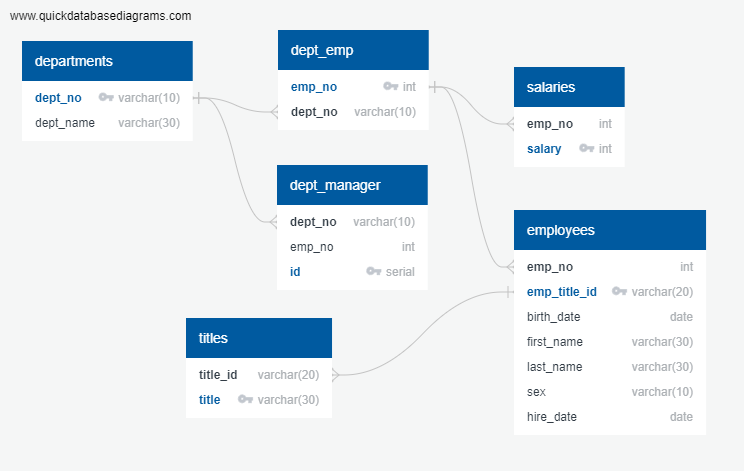
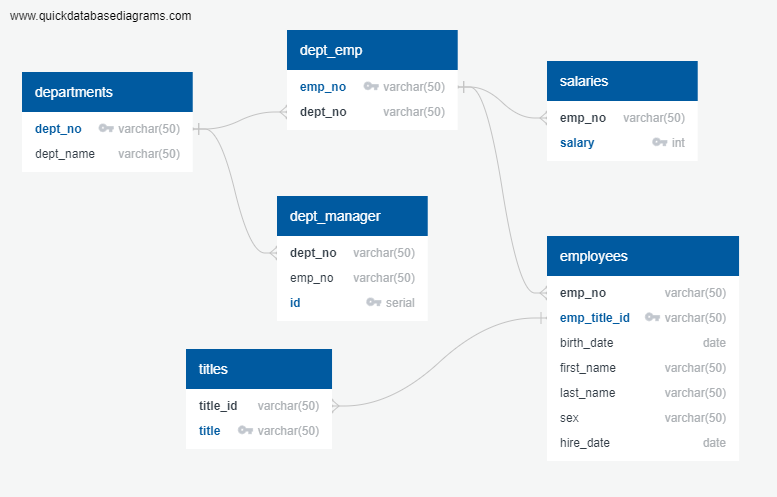
mistakes

diff --git a/README.md b/README.md
@@ -1,8 +1,14 @@
 # sql-challenge
+# METHOD
+Created incorrect version and had trouble running the export in PostgreSQL
+![picture1](Images/incorrect_QDBD.png)
+After discussion with Deborah Aina (learning assistant), reorganized QuickDBD tables.
+1. Identify Parent (primary) keys
+2. Identify Child (foreign) keys
+3. Order tables from highest to least primary keys.
+Corrected tables in QuickDBD
 Followed directions and used QuickDBD to format database tables. 
-![picture1](Images/QuickDBD-export.png)
-Exported to SQL.
-Corrected following error (date)
-ERROR:  type "datetime" does not exist
-LINE 8:     "birth_date" datetime   NOT NULL,
-
+![picture2](Images/QuickDBD.png)
+Exported to SQL and table created.
+Deleted (Cascade) each table to practice writing out the query for tables manually. 
+Created tables in sequence and wrote Foreign Keys code from SQL activity 3.03 - Intro to Foreign Keys.
